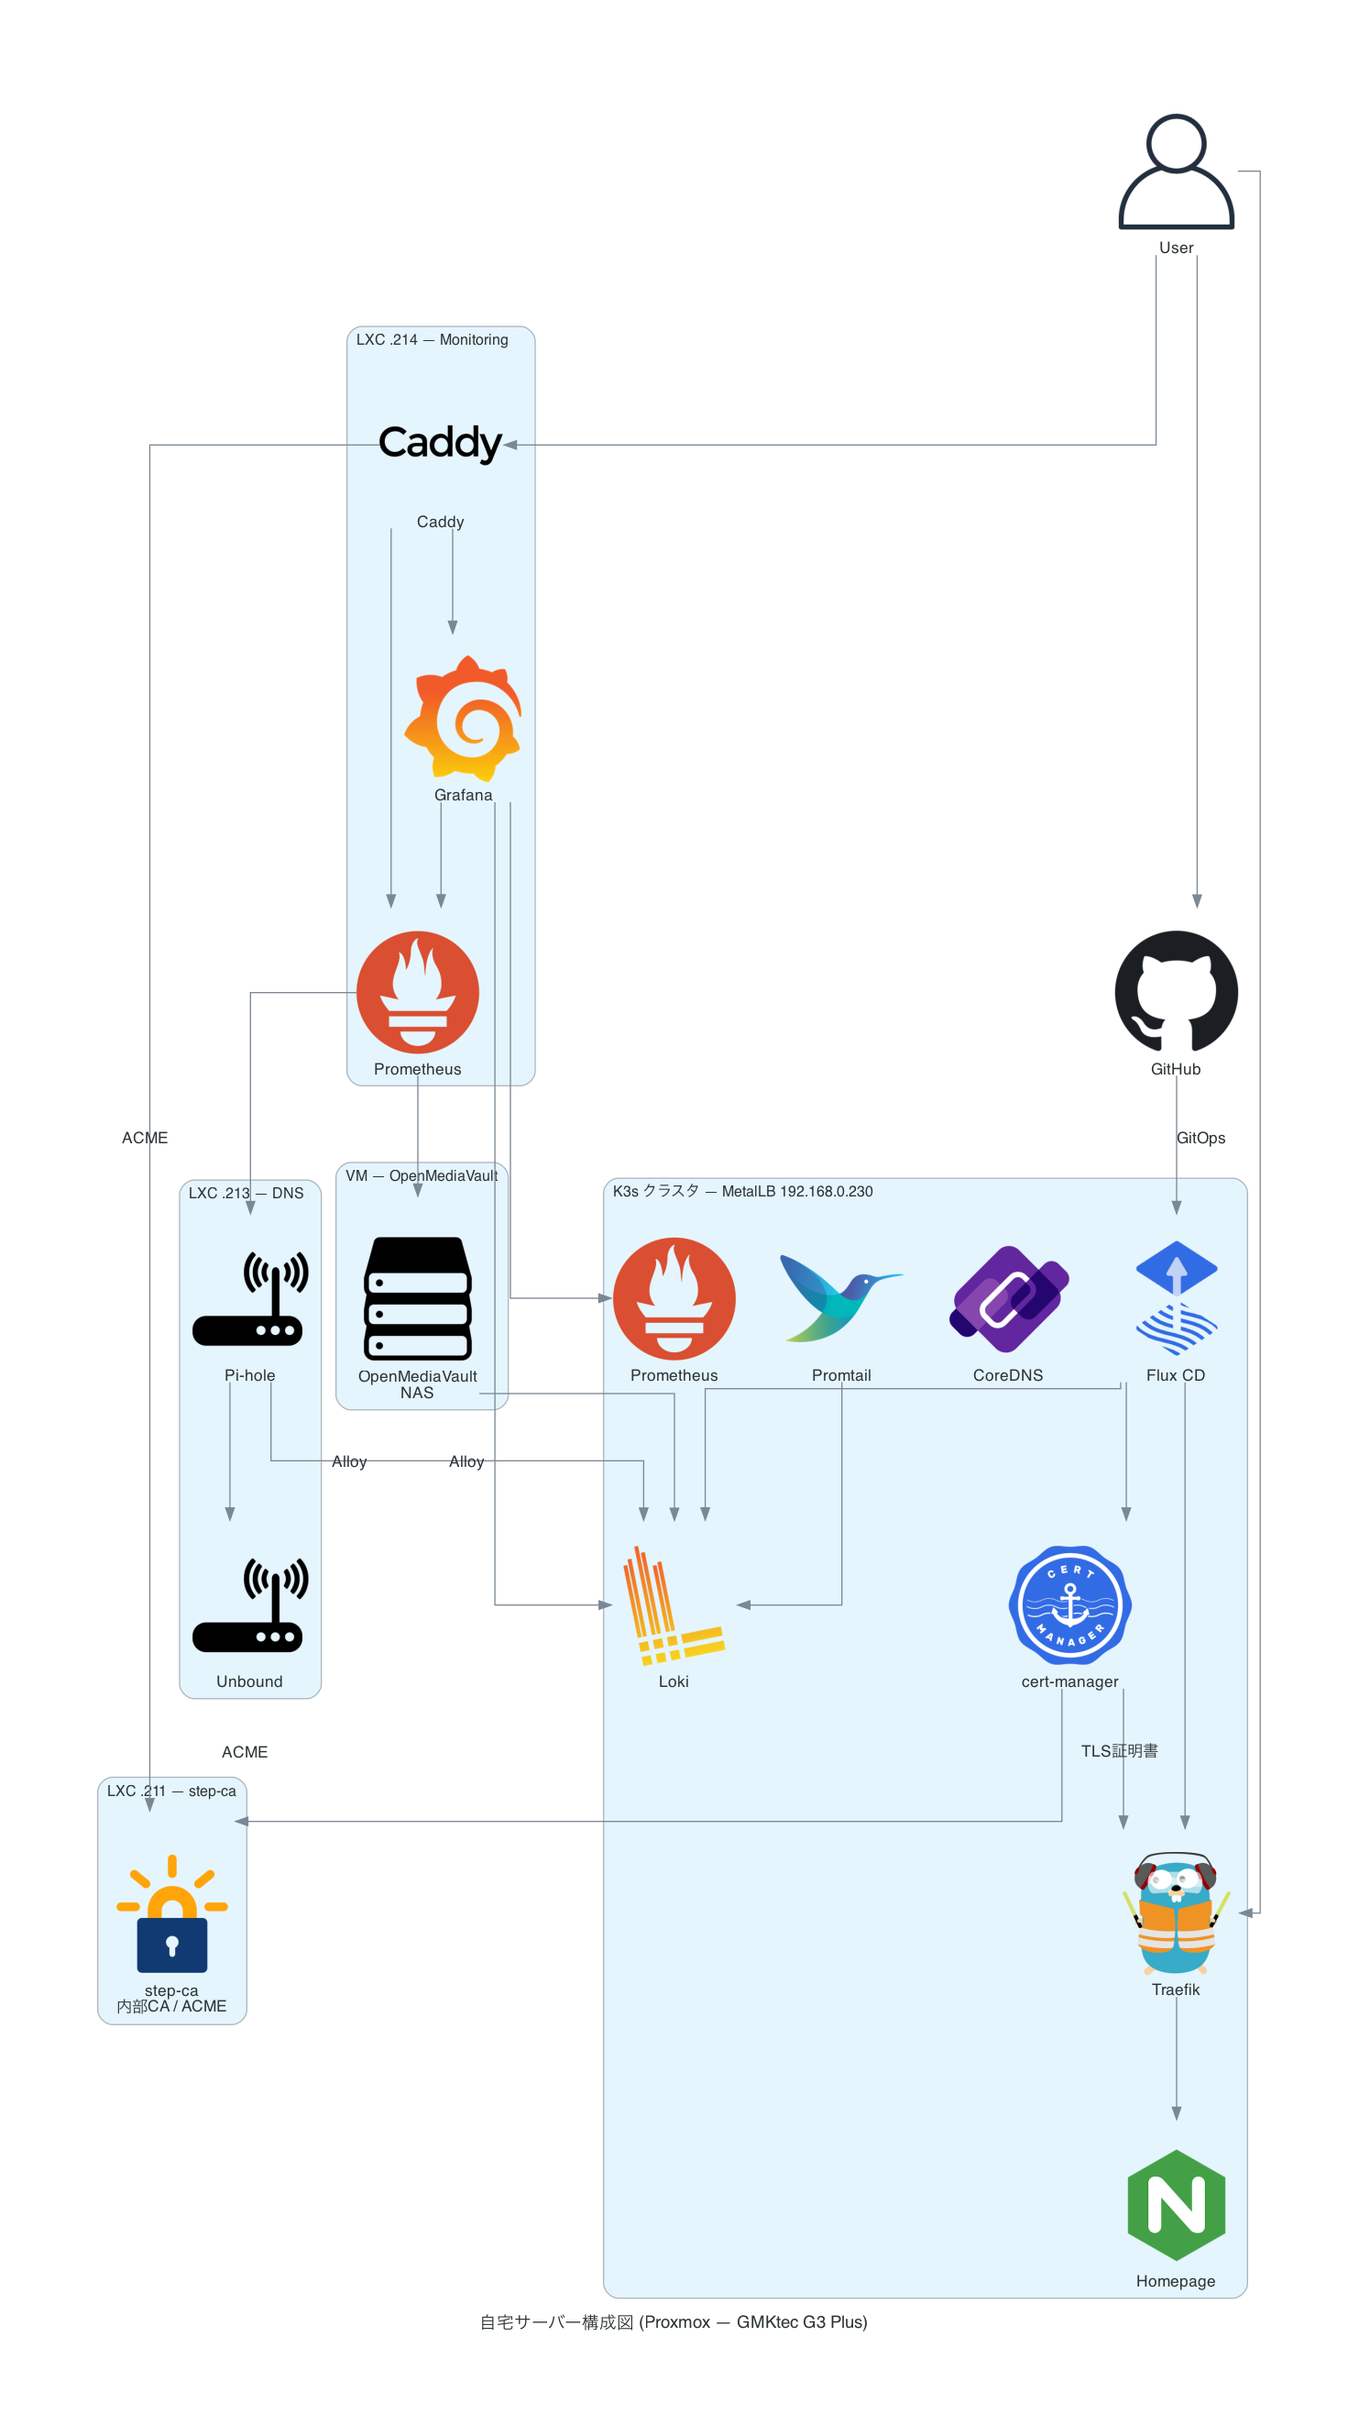
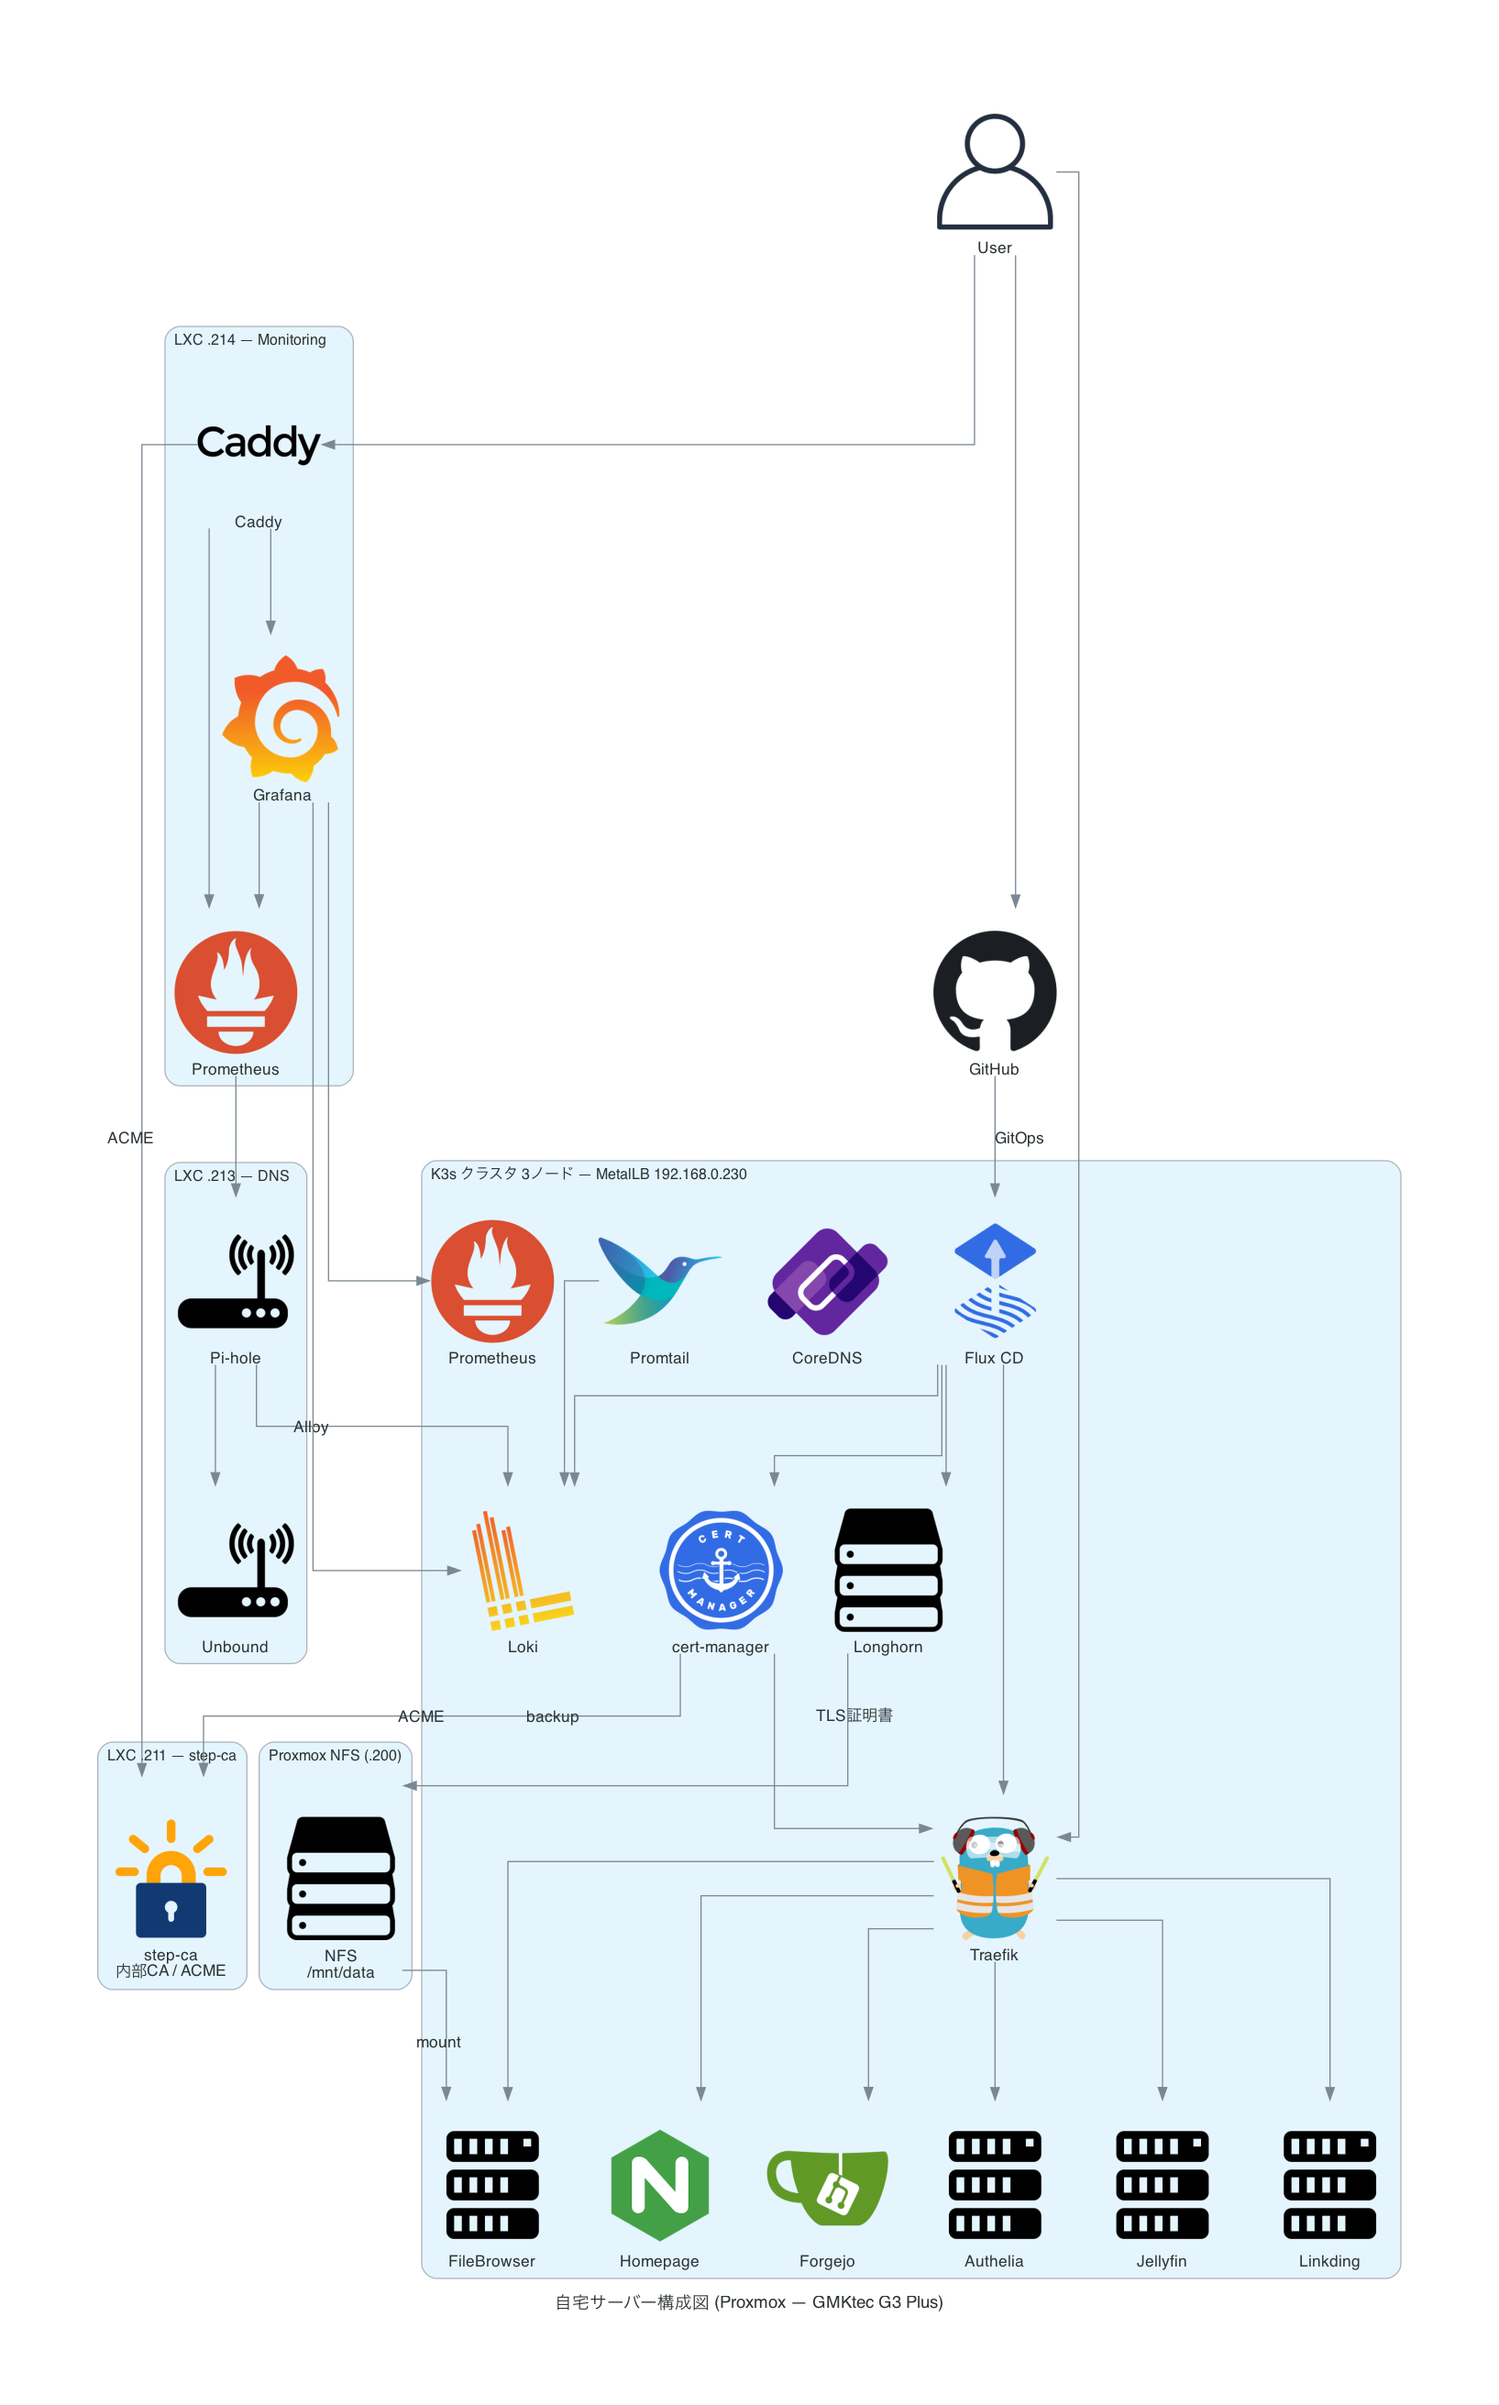
Homepageの配置修正

diff --git a/scripts/diagram.py b/scripts/diagram.py
@@ -1,6 +1,6 @@
 from diagrams import Diagram, Cluster, Edge
 from diagrams.onprem.client import User
-from diagrams.onprem.vcs import Github
+from diagrams.onprem.vcs import Github, Gitea
 from diagrams.onprem.certificates import LetsEncrypt, CertManager
 from diagrams.onprem.dns import Coredns
 from diagrams.generic.network import Router
@@ -9,6 +9,7 @@ from diagrams.onprem.monitoring import Prometheus, Grafana
 from diagrams.onprem.logging import Loki, FluentBit
 from diagrams.generic.storage import Storage
 from diagrams.onprem.gitops import Flux
+from diagrams.onprem.compute import Server
 
 graph_attr = {
     "fontsize": "14",
@@ -43,21 +44,31 @@ with Diagram(
         caddy >> [grafana, prometheus]
         grafana >> prometheus
 
-    with Cluster("VM — OpenMediaVault"):
-        ovm = Storage("OpenMediaVault\nNAS")
+    with Cluster("Proxmox NFS (.200)"):
+        nfs = Storage("NFS\n/mnt/data")
 
-    with Cluster("K3s クラスタ — MetalLB 192.168.0.230"):
+    with Cluster("K3s クラスタ 3ノード — MetalLB 192.168.0.230"):
         flux = Flux("Flux CD")
         traefik = Traefik("Traefik")
         cert_manager = CertManager("cert-manager")
         coredns = Coredns("CoreDNS")
+        longhorn = Storage("Longhorn")
+
+        # アプリ
         homepage = Nginx("Homepage")
+        forgejo = Gitea("Forgejo")
+        authelia = Server("Authelia")
+        filebrowser = Server("FileBrowser")
+        jellyfin = Server("Jellyfin")
+        linkding = Server("Linkding")
+
+        # 監視・ログ
         k_prom = Prometheus("Prometheus")
         loki = Loki("Loki")
         promtail = FluentBit("Promtail")
 
-        flux >> [traefik, cert_manager, loki]
-        traefik >> homepage
+        flux >> [traefik, cert_manager, longhorn, loki]
+        traefik >> [homepage, forgejo, authelia, filebrowser, jellyfin, linkding]
         cert_manager >> Edge(label="TLS証明書") >> traefik
         promtail >> loki
 
@@ -75,8 +86,11 @@ with Diagram(
 
     # 監視
     grafana >> [k_prom, loki]
-    prometheus >> [ovm, pihole]
+    prometheus >> pihole
 
     # ログ集約
-    ovm >> Edge(label="Alloy") >> loki
     pihole >> Edge(label="Alloy") >> loki
+
+    # ストレージ
+    nfs >> Edge(label="mount") >> filebrowser
+    longhorn >> Edge(label="backup") >> nfs
